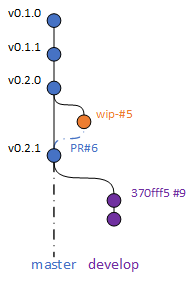
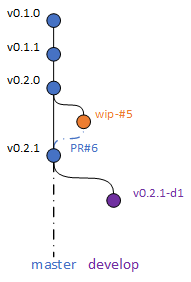
ref issue(s) #8, and #9. Commit to capture build tree of v0.2.1-d1, which captures corrections made for issues #8 and #9

diff --git a/README.md b/README.md
@@ -10,13 +10,10 @@ This library contains the support of a majority of devices/interaces which will 
 ![build tree](/_image/Build_tree.png)
 
 develop
-d0.2.1.2 - WIP
-* Worked isse [#8](https://github.com/mipidisaster/miLibrary/issues/8)
+v0.2.1-d1
+* Fixed isse [#8](https://github.com/mipidisaster/miLibrary/issues/8), [#9](https://github.com/mipidisaster/miLibrary/issues/9), through introduction of `zz__MiEmbedType__zz`
 > See issue comments, for specific commits to correct issue
-> Issues raised during phase : [#10](https://github.com/mipidisaster/miLibrary/issues/10), [#11](https://github.com/mipidisaster/miLibrary/issues/11), [#12](https://github.com/mipidisaster/miLibrary/issues/12)
-
-d0.2.1.1 ([370fff5](https://github.com/mipidisaster/miLibrary/commit/370fff5c7c8afe60d7818f0641e5b5403ae21538))
-* Worked issue [#9](https://github.com/mipidisaster/miLibrary/issues/9), through introduction of `zz__MiEmbedType__zz`
+* Issues raised during phase : [#10](https://github.com/mipidisaster/miLibrary/issues/10), [#11](https://github.com/mipidisaster/miLibrary/issues/11), [#12](https://github.com/mipidisaster/miLibrary/issues/12)
 
 v0.2.1
 * Introduces changes made in the branch 'wip-#5-stepper-improvements', these changes have been captured within Pull Request #6 (PR[#6](https://github.com/mipidisaster/miLibrary/pull/6/))
